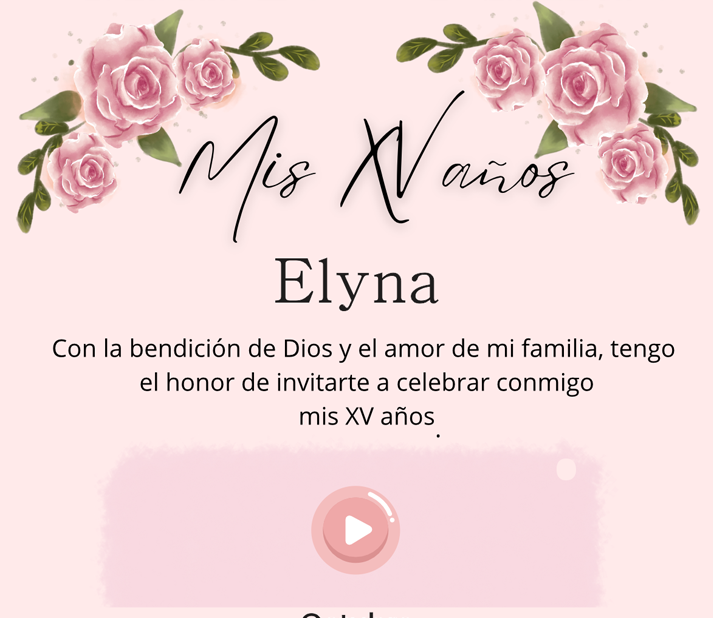
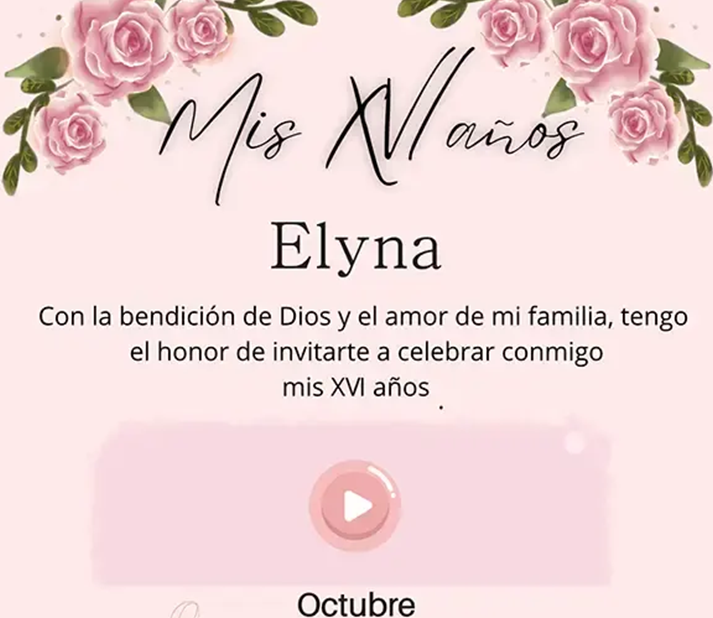
asd
asd

diff --git a/index.html b/index.html
@@ -3,11 +3,11 @@
 <head>
     <meta charset="UTF-8">
     <meta name="viewport" content="width=device-width, initial-scale=1.0">
-    <title>Mis XV Elyna </title>
+    <title>Mis XVI Elyna </title>
  
 
     <!-- Meta tags para redes sociales -->
-    <meta property="og:title" content="Mis XV Elyna ">
+    <meta property="og:title" content="Mis XVI Elyna ">
     <meta property="og:description" content="¡Te invito a celebrar conmigo este día tan especial!">
     <meta property="og:image" content="https://invitadoweb.github.io/Elyna/f.png">
     <meta property="og:url" content="https://invitadoweb.github.io/Elyna">
@@ -94,7 +94,7 @@
    
 
             <a class="pst_absolute w_100 hpx_150 no_link" style=" top:85%;                    "
-            href="https://api.whatsapp.com/send?phone=+5213325166397&text=Hola,%20confirmo%20mi%20asistencia%20a%20tu%20evento"  target="_blank"></a>
+            href="https://api.whatsapp.com/send?phone=+5216383807691&text=Hola,%20confirmo%20mi%20asistencia%20a%20tu%20evento"  target="_blank"></a>
 
 
 
